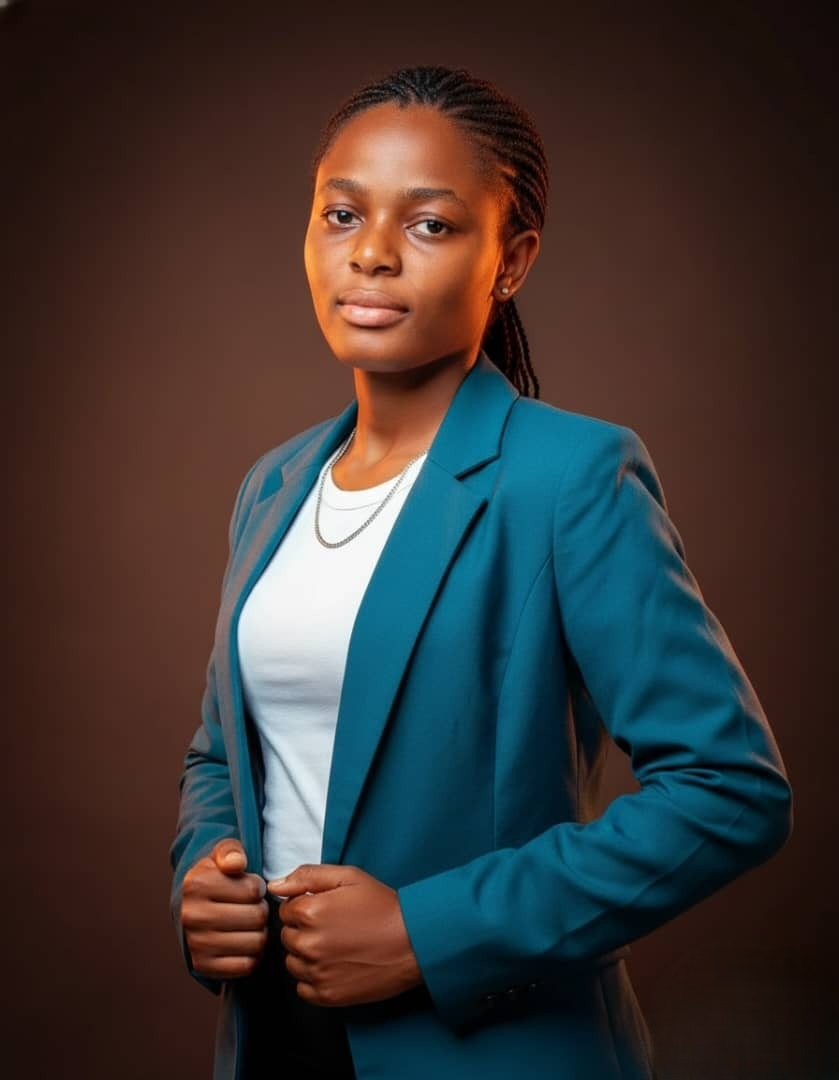
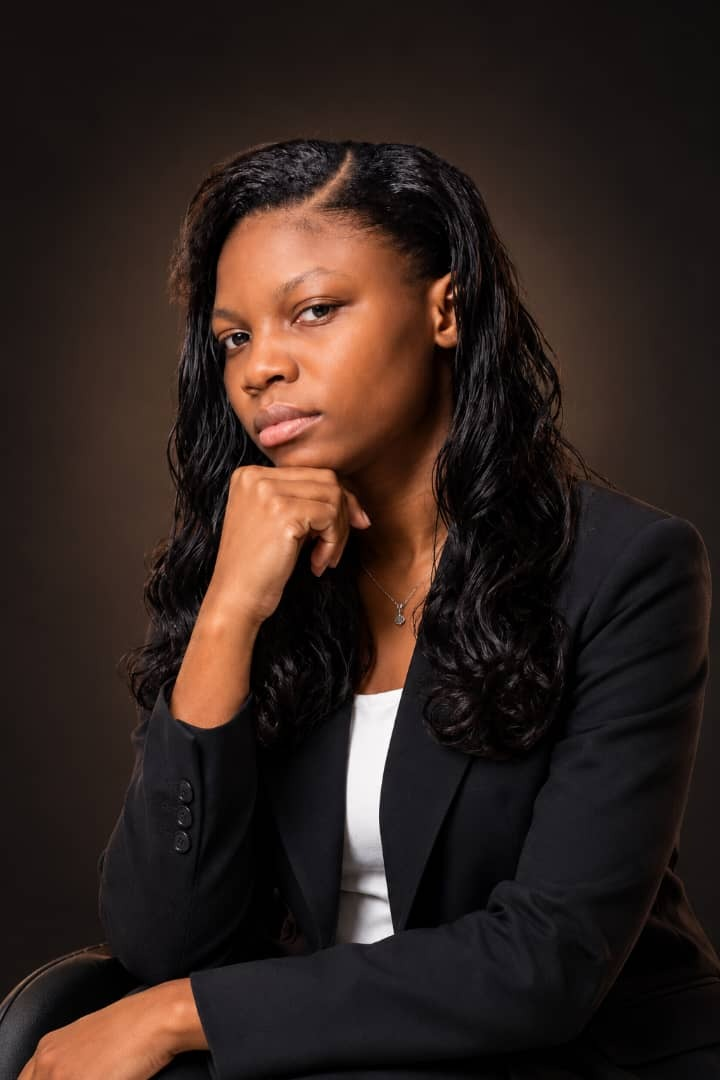
Portfolio de Batista Segla

diff --git a/src/components/Team.jsx b/src/components/Team.jsx
@@ -1,0 +1,76 @@
+import { useState } from "react";
+import { team } from "../data/team.js";
+import { Arrow, Reveal, Spark } from "./ui.jsx";
+
+const initials = (name) => name.split(/\s+/).filter(Boolean).slice(0, 2).map((w) => w[0]).join("").toUpperCase();
+// Grille en quinconce : une colonne sur deux est décalée vers le bas (grand écran).
+const drop = (i) => (i % 2 ? "lg:mt-12" : "");
+
+// La tuile d'invitation occupe les colonnes restantes de la dernière ligne (grand écran).
+const fill = { 1: "lg:col-span-1", 2: "lg:col-span-2", 3: "lg:col-span-3", 4: "lg:col-span-4" };
+
+function Member({ m, i }) {
+  const [missing, setMissing] = useState(false);
+  const Tag = m.link ? "a" : "div";
+  const linkProps = m.link ? { href: m.link, target: "_blank", rel: "noreferrer" } : {};
+  return (
+    <Tag {...linkProps} className="theme-dark group relative block aspect-[4/5] overflow-hidden rounded-[1.75rem] bg-ink text-bone ring-1 ring-bone/10 transition-[transform,box-shadow] duration-500 ease-[cubic-bezier(.2,.7,.2,1)] hover:-translate-y-2 hover:shadow-[0_30px_60px_-25px_rgb(var(--c-accent)/.55)]">
+      {missing ? (
+        <span className="absolute inset-0 flex items-start justify-center pt-[22%] sm:items-center sm:pt-0 bg-[repeating-linear-gradient(135deg,rgb(var(--c-bone)/.05)_0_2px,transparent_2px_16px)]">
+          <span className="font-display text-[clamp(3rem,7vw,5.5rem)] font-bold tracking-[-0.04em] text-bone/25 transition-colors duration-500 group-hover:text-accent">{initials(m.name)}</span>
+        </span>
+      ) : (
+        <img
+          src={m.photo} alt={`${m.name}, ${m.role}`} loading="lazy" onError={() => setMissing(true)}
+          className="absolute inset-0 h-full w-full object-cover grayscale transition-all duration-[900ms] ease-[cubic-bezier(.2,.7,.2,1)] group-hover:scale-[1.06] group-hover:grayscale-0"
+        />
+      )}
+      <span className="pointer-events-none absolute inset-0 bg-gradient-to-t from-ink/90 via-ink/15 to-transparent" />
+      <span className="absolute left-4 top-4 rounded-full bg-ink/70 px-3 py-1 font-display text-xs text-bone backdrop-blur transition-colors duration-500 group-hover:bg-accent group-hover:text-ink">0{i + 1}</span>
+      {m.link && (
+        <span className="absolute right-4 top-4 grid h-9 w-9 scale-0 place-items-center rounded-full bg-accent text-ink transition-transform duration-500 group-hover:scale-100"><Arrow className="h-4 w-4" /></span>
+      )}
+      <span className="absolute inset-x-4 bottom-4 block sm:inset-x-5 sm:bottom-5">
+        <span className="block font-display text-lg font-bold leading-tight tracking-tight sm:text-2xl">{m.name}</span>
+        <span className="mt-1.5 block text-sm text-mist transition-colors duration-500 group-hover:text-accent sm:text-base">{m.role}</span>
+        <span className="mt-3 block h-0.5 w-8 bg-accent transition-all duration-500 group-hover:w-full" />
+      </span>
+    </Tag>
+  );
+}
+
+export default function Team() {
+  return (
+    <section id="team" className="shell pb-24 sm:pb-36">
+      <div className="grid items-end gap-8 lg:grid-cols-12">
+        <Reveal className="lg:col-span-8">
+          <p className="eyebrow text-accent">( Équipe — {String(team.length).padStart(2, "0")} talents )</p>
+          <h2 className="mt-8 font-display text-title font-bold">Celles et ceux avec<br />qui je <span className="mark">travaille</span></h2>
+        </Reveal>
+        <Reveal delay={120} className="font-display text-xl leading-snug text-mist sm:text-2xl lg:col-span-4 lg:pb-3">
+          Les meilleurs projets se construisent à plusieurs. Voici les personnes avec qui je collabore.
+        </Reveal>
+      </div>
+
+      <ul className="mt-14 grid grid-cols-2 gap-4 sm:mt-20 sm:gap-5 lg:grid-cols-4">
+        {team.map((m, i) => (
+          <Reveal as="li" key={i} delay={(i % 4) * 90} className={drop(i)}>
+            <Member m={m} i={i} />
+          </Reveal>
+        ))}
+
+        {/* Tuile d'invitation */}
+        <Reveal as="li" delay={(team.length % 4) * 90} className={`${team.length % 2 ? "col-span-1" : "col-span-2"} ${fill[4 - (team.length % 4)]} ${drop(team.length)}`}>
+          <a href="#contact" className="group relative flex h-full min-h-[14rem] flex-col justify-between overflow-hidden rounded-[1.75rem] bg-accent p-5 text-ink transition-transform duration-500 hover:-translate-y-2 sm:p-9">
+            <Spark className="absolute -right-8 -top-8 h-36 w-36 animate-spin-slow text-ink/10" />
+            <span className="eyebrow relative">Et vous ?</span>
+            <span className="relative flex items-end justify-between gap-4">
+              <span className="font-display text-2xl font-bold leading-[1.05] tracking-tight sm:text-5xl">Rejoignez<br />l’aventure.</span>
+              <span className="grid h-14 w-14 shrink-0 place-items-center rounded-full bg-ink text-accent transition-transform duration-500 group-hover:rotate-45 max-sm:hidden"><Arrow /></span>
+            </span>
+          </a>
+        </Reveal>
+      </ul>
+    </section>
+  );
+}

diff --git a/src/lib/visitNotifier.js b/src/lib/visitNotifier.js
@@ -1,0 +1,72 @@
+import { site } from "../data/site.js";
+
+/* Notification de visite par e-mail, envoyée en arrière-plan.
+   ---------------------------------------------------------------------------
+   - Passe par Web3Forms (https://web3forms.com) : aucun serveur à gérer.
+     La clé se règle dans src/data/site.js → visitNotification.accessKey.
+     Tant que la clé est vide, rien n'est envoyé.
+   - Une seule notification par visiteur : une fois l'e-mail parti, le navigateur
+     le retient (localStorage) et n'en renvoie plus, même aux visites suivantes.
+   - Aucune donnée personnelle n'est collectée : ni nom, ni e-mail, ni adresse IP.
+   - Rien n'est envoyé depuis votre propre machine (localhost), pour les robots,
+     ni pour les visiteurs qui ont activé « Ne pas me pister ».                    */
+
+const STORAGE_KEY = "portfolio-visit-notified";
+const ENDPOINT = "https://api.web3forms.com/submit";
+const DELAY_MS = 5000; // on attend 5 s : une vraie visite, pas un passage éclair
+
+const alreadyNotified = () => { try { return localStorage.getItem(STORAGE_KEY) !== null; } catch { return true; } };
+const remember = () => { try { localStorage.setItem(STORAGE_KEY, new Date().toISOString()); } catch { /* stockage indisponible */ } };
+
+function shouldSkip() {
+  const { hostname } = window.location;
+  if (["localhost", "127.0.0.1", "[::1]"].includes(hostname) || hostname.endsWith(".local")) return true;
+  if (navigator.webdriver) return true;
+  if (/bot|crawl|spider|slurp|lighthouse|headless|preview|facebookexternalhit|whatsapp/i.test(navigator.userAgent)) return true;
+  if (navigator.doNotTrack === "1" || window.doNotTrack === "1") return true;
+  return false;
+}
+
+function describeVisit() {
+  const ua = navigator.userAgent;
+  const device = /Mobi|Android|iPhone/i.test(ua) ? "Téléphone" : /iPad|Tablet/i.test(ua) ? "Tablette" : "Ordinateur";
+  const browser = /Edg\//.test(ua) ? "Edge" : /OPR\//.test(ua) ? "Opera" : /Chrome\//.test(ua) ? "Chrome" : /Firefox\//.test(ua) ? "Firefox" : /Safari\//.test(ua) ? "Safari" : "Autre";
+  let source = "Accès direct (lien tapé, favori ou application)";
+  try { if (document.referrer) source = new URL(document.referrer).hostname; } catch { /* référent illisible */ }
+  return {
+    "Date": new Date().toLocaleString("fr-FR", { dateStyle: "full", timeStyle: "short" }),
+    "Fuseau horaire": Intl.DateTimeFormat().resolvedOptions().timeZone || "inconnu",
+    "Provenance": source,
+    "Page": window.location.href,
+    "Appareil": `${device} — ${browser}`,
+    "Écran": `${window.screen.width} × ${window.screen.height}`,
+    "Langue": navigator.language,
+  };
+}
+
+export function notifyVisitOnce() {
+  const key = site.visitNotification?.accessKey;
+  if (!key || alreadyNotified() || shouldSkip()) return;
+
+  const send = async () => {
+    if (alreadyNotified()) return; // un autre onglet a pu envoyer entre-temps
+    try {
+      const res = await fetch(ENDPOINT, {
+        method: "POST",
+        headers: { "Content-Type": "application/json", Accept: "application/json" },
+        body: JSON.stringify({
+          access_key: key,
+          subject: `Nouvelle visite sur le portfolio de ${site.name}`,
+          from_name: `Portfolio ${site.name}`,
+          ...describeVisit(),
+        }),
+        keepalive: true,
+      });
+      const data = await res.json().catch(() => ({}));
+      if (res.ok && data.success) remember(); // en cas d'échec, on réessaiera à la prochaine visite
+    } catch { /* hors ligne ou service indisponible : silencieux pour le visiteur */ }
+  };
+
+  const timer = setTimeout(send, DELAY_MS);
+  return () => clearTimeout(timer);
+}

diff --git a/src/components/ThemeToggle.jsx b/src/components/ThemeToggle.jsx
@@ -1,0 +1,42 @@
+import { useEffect, useState } from "react";
+
+/* Bouton flottant clair / sombre. Le choix est mémorisé sur l'appareil du visiteur.
+   Les couleurs des deux thèmes sont définies en haut de src/index.css. */
+export default function ThemeToggle() {
+  const [theme, setTheme] = useState(() => document.documentElement.dataset.theme || "dark");
+
+  useEffect(() => {
+    const root = document.documentElement;
+    root.dataset.theme = theme;
+    document.querySelector('meta[name="theme-color"]')?.setAttribute("content", theme === "light" ? "#F5F5EF" : "#090909");
+    try { localStorage.setItem("theme", theme); } catch { /* stockage indisponible : le choix vaut pour cette visite */ }
+  }, [theme]);
+
+  const toggle = () => {
+    const root = document.documentElement;
+    root.classList.add("theme-anim");                       // fondu doux entre les deux thèmes
+    setTimeout(() => root.classList.remove("theme-anim"), 700);
+    setTheme((t) => (t === "light" ? "dark" : "light"));
+  };
+
+  const light = theme === "light";
+  return (
+    <button
+      type="button" onClick={toggle} aria-pressed={light}
+      aria-label={light ? "Passer en mode sombre" : "Passer en mode clair"} title={light ? "Mode sombre" : "Mode clair"}
+      className="theme-toggle group fixed bottom-5 right-5 z-50 grid h-14 w-14 place-items-center overflow-hidden rounded-full border border-bone/20 bg-ink text-bone shadow-[0_12px_30px_-8px_rgb(0_0_0/.45)] transition-transform duration-300 hover:scale-110 active:scale-95 sm:bottom-7 sm:right-7"
+    >
+      <span className="absolute inset-0 scale-0 rounded-full bg-accent transition-transform duration-500 group-hover:scale-100" />
+      {/* Soleil */}
+      <svg viewBox="0 0 24 24" fill="none" stroke="currentColor" strokeWidth="2" strokeLinecap="round" aria-hidden="true"
+        className={`absolute h-6 w-6 transition-all duration-500 group-hover:text-ink ${light ? "rotate-90 scale-0 opacity-0" : "rotate-0 scale-100"}`}>
+        <circle cx="12" cy="12" r="4" /><path d="M12 2v2M12 20v2M4.9 4.9l1.4 1.4M17.7 17.7l1.4 1.4M2 12h2M20 12h2M4.9 19.1l1.4-1.4M17.7 6.3l1.4-1.4" />
+      </svg>
+      {/* Lune */}
+      <svg viewBox="0 0 24 24" fill="none" stroke="currentColor" strokeWidth="2" strokeLinecap="round" strokeLinejoin="round" aria-hidden="true"
+        className={`absolute h-6 w-6 transition-all duration-500 group-hover:text-ink ${light ? "rotate-0 scale-100" : "-rotate-90 scale-0 opacity-0"}`}>
+        <path d="M20.5 14.5A8.5 8.5 0 0 1 9.5 3.5a8.5 8.5 0 1 0 11 11Z" />
+      </svg>
+    </button>
+  );
+}

diff --git a/src/components/Process.jsx b/src/components/Process.jsx
@@ -21,10 +21,10 @@ export default function Process() {
       <ol className="mt-14 grid gap-5 sm:mt-20 sm:grid-cols-2 lg:grid-cols-4">
         {process.map((s, i) => (
           <Reveal as="li" key={s.n} delay={i * 110} className={offset[i]}>
-            <div tabIndex={0} className="group relative flex h-full min-h-[19rem] flex-col justify-between overflow-hidden rounded-[2rem] border border-bone/15 bg-bone/[0.05] p-7 transition-[transform,color,border-color,box-shadow] duration-500 ease-[cubic-bezier(.2,.7,.2,1)] hover:-translate-y-2 hover:border-accent hover:text-ink hover:shadow-[0_30px_60px_-25px_rgba(156,255,61,.6)] focus-visible:text-ink sm:p-8">
+            <div tabIndex={0} className="group relative flex h-full min-h-[19rem] flex-col justify-between overflow-hidden rounded-[2rem] border border-bone/15 bg-bone/[0.05] p-7 transition-[transform,color,border-color,box-shadow] duration-500 ease-[cubic-bezier(.2,.7,.2,1)] hover:-translate-y-2 hover:border-accent hover:text-ink hover:shadow-[0_30px_60px_-25px_rgb(var(--c-accent)/.6)] focus-visible:text-ink sm:p-8">
               <span aria-hidden="true" className="absolute inset-0 bg-accent transition-[clip-path] duration-700 ease-[cubic-bezier(.2,.7,.2,1)] [clip-path:circle(0%_at_0%_100%)] group-hover:[clip-path:circle(150%_at_0%_100%)] group-focus-visible:[clip-path:circle(150%_at_0%_100%)]" />
               {/* Grand numéro en contour */}
-              <span aria-hidden="true" className="pointer-events-none absolute -right-2 -top-6 font-display text-[9rem] font-bold leading-none tracking-[-0.06em] text-transparent transition-all duration-700 [-webkit-text-stroke:1.5px_rgba(245,245,239,.16)] group-hover:-translate-x-2 group-hover:translate-y-2 group-hover:[-webkit-text-stroke:1.5px_rgba(9,9,9,.3)]">{s.n}</span>
+              <span aria-hidden="true" className="pointer-events-none absolute -right-2 -top-6 font-display text-[9rem] font-bold leading-none tracking-[-0.06em] text-transparent transition-all duration-700 [-webkit-text-stroke:1.5px_rgb(var(--c-bone)/.16)] group-hover:-translate-x-2 group-hover:translate-y-2 group-hover:[-webkit-text-stroke:1.5px_rgb(var(--c-ink)/.3)]">{s.n}</span>
 
               <div className="relative flex items-center justify-between">
                 <span className="rounded-full border border-current px-4 py-1.5 font-display text-xs font-medium uppercase tracking-[0.18em]">Étape {s.n}</span>

diff --git a/src/components/Skills.jsx b/src/components/Skills.jsx
@@ -42,7 +42,7 @@ export default function Skills() {
               <Reveal key={g.title} delay={i * 100}>
                 {/* Au survol : la boîte se remplit de vert depuis un coin, se soulève,
                     et ses pastilles se soulèvent l'une après l'autre. */}
-                <div tabIndex={0} className={`group/box relative h-full overflow-hidden rounded-[2rem] p-8 transition-[transform,box-shadow,color,border-color] duration-500 ease-[cubic-bezier(.2,.7,.2,1)] hover:-translate-y-2 hover:-rotate-1 hover:border-accent hover:text-ink hover:shadow-[0_30px_60px_-25px_rgba(156,255,61,.7)] focus-visible:-translate-y-2 focus-visible:text-ink sm:p-10 ${i === 0 ? "border border-ink bg-ink text-bone" : "border border-ink/15"}`}>
+                <div tabIndex={0} className={`group/box relative h-full overflow-hidden rounded-[2rem] p-8 transition-[transform,box-shadow,color,border-color] duration-500 ease-[cubic-bezier(.2,.7,.2,1)] hover:-translate-y-2 hover:-rotate-1 hover:border-accent hover:text-ink hover:shadow-[0_30px_60px_-25px_rgb(var(--c-accent)/.7)] focus-visible:-translate-y-2 focus-visible:text-ink sm:p-10 ${i === 0 ? "border border-ink bg-ink text-bone" : "border border-ink/15"}`}>
                   <span aria-hidden="true" className="absolute inset-0 bg-accent transition-[clip-path] duration-700 ease-[cubic-bezier(.2,.7,.2,1)] [clip-path:circle(0%_at_100%_0%)] group-hover/box:[clip-path:circle(150%_at_100%_0%)] group-focus-visible/box:[clip-path:circle(150%_at_100%_0%)]" />
                   <Spark className="absolute -bottom-10 -right-10 h-40 w-40 scale-50 text-ink opacity-0 transition-all duration-700 group-hover/box:scale-100 group-hover/box:opacity-10 group-hover/box:rotate-90" />
                   <div className="relative flex items-baseline justify-between">

diff --git a/src/data/site.js b/src/data/site.js
@@ -5,6 +5,10 @@ export const site = {
   email: "batista.segla@example.com",
   linkedin: "https://www.linkedin.com/",
   github: "https://github.com/",
+  // Notification par e-mail à chaque nouveau visiteur (une seule fois par personne).
+  // 1. Créez une clé gratuite sur https://web3forms.com avec l'adresse qui doit recevoir les alertes.
+  // 2. Collez-la ci-dessous. Clé vide = notifications désactivées.
+  visitNotification: { accessKey: "" },
   images: {
     // Portrait détouré (fond transparent : PNG ou WebP).
     hero: "/assets/images/hero/batista-hero.webp",
@@ -27,11 +31,10 @@ export const stats = [
 ];
 
 export const aboutFacts = [
-  { label: "Basée en", value: "Afrique de l’Ouest", icon: "/assets/icons/location.svg" },
-  { label: "Rôle", value: "Développeuse web junior", icon: "/assets/icons/role.svg" },
-  { label: "Spécialité", value: "Frontend & Full-stack", icon: "/assets/icons/focus.svg" },
-  // `tags` : la valeur est affichée sous forme de pastilles.
-  { label: "Approche", tags: ["Simple", "Utile", "Élégant"], icon: "/assets/icons/approach.svg" },
+  { label: "Basée en", value: "Afrique de l’Ouest" },
+  { label: "Rôle", value: "Développeuse web junior" },
+  { label: "Spécialité", value: "Frontend & Full-stack" },
+  { label: "Approche", value: "Simple · Utile · Élégant" },
 ];
 
 export const process = [

diff --git a/tailwind.config.js b/tailwind.config.js
@@ -4,12 +4,13 @@ export default {
   theme: {
     extend: {
       // Palette : noir, blanc cassé et UNE couleur d'accent.
-      // Pour changer la couleur du site, modifiez simplement "accent" ci-dessous.
+      // Les valeurs sont définies en haut de src/index.css.
       colors: {
-        ink: "#090909", bone: "#F5F5EF", accent: "#9CFF3D",
-        // Couleurs de texte secondaires, teintées vers le vert pour s'accorder à l'accent.
-        mist: { DEFAULT: "#C9D1BC", dim: "#959E88" },   // sur fond noir : texte courant / discret
-        moss: { DEFAULT: "#2B3421", dim: "#56604A" },   // sur fond clair : texte courant / discret
+        ink: "rgb(var(--c-ink) / <alpha-value>)",
+        bone: "rgb(var(--c-bone) / <alpha-value>)",
+        accent: "rgb(var(--c-accent) / <alpha-value>)",
+        mist: { DEFAULT: "rgb(var(--c-mist) / <alpha-value>)", dim: "rgb(var(--c-mist-dim) / <alpha-value>)" },   // texte courant / discret sur fond « ink »
+        moss: { DEFAULT: "rgb(var(--c-moss) / <alpha-value>)", dim: "rgb(var(--c-moss-dim) / <alpha-value>)" },   // texte courant / discret sur fond « bone »
       },
       fontFamily: {
         display: ['"Space Grotesk Variable"', "Space Grotesk", "system-ui", "sans-serif"],

diff --git a/src/components/ProjectCard.jsx b/src/components/ProjectCard.jsx
@@ -69,7 +69,8 @@ export default function ProjectCard({ project: p }) {
   if (p.layout === "full") return (
     <Reveal as="article">
       <a href={p.link} className="group block">
-        <Shot src={p.image} alt={alt} className="aspect-[4/3] rounded-panel sm:aspect-[16/10] lg:aspect-[16/7]">
+        {/* theme-dark : le texte posé sur la photo reste clair dans les deux thèmes */}
+        <Shot src={p.image} alt={alt} className="theme-dark aspect-[4/3] rounded-panel text-bone sm:aspect-[16/10] lg:aspect-[16/7]">
           <div className="pointer-events-none absolute inset-0 bg-gradient-to-t from-ink/85 via-ink/10 to-transparent transition-opacity duration-700 group-hover:opacity-80" />
           <span className="absolute left-6 top-6 rounded-full bg-accent px-5 py-2 font-display text-sm font-medium text-ink transition-transform duration-500 group-hover:-translate-y-1 sm:left-10 sm:top-10">{p.n} — {p.type}</span>
           <div className="absolute inset-x-6 bottom-6 flex flex-wrap items-end justify-between gap-6 sm:inset-x-10 sm:bottom-10">

diff --git a/src/App.jsx b/src/App.jsx
@@ -1,3 +1,5 @@
+import { useEffect } from "react";
+import { notifyVisitOnce } from "./lib/visitNotifier.js";
 import Curtain from "./components/Curtain.jsx";
 import Navbar from "./components/Navbar.jsx";
 import Hero from "./components/Hero.jsx";
@@ -7,10 +9,14 @@ import Marquee from "./components/Marquee.jsx";
 import Skills from "./components/Skills.jsx";
 import Projects from "./components/Projects.jsx";
 import Process from "./components/Process.jsx";
+import Team from "./components/Team.jsx";
 import Contact from "./components/Contact.jsx";
 import Footer from "./components/Footer.jsx";
 
 export default function App() {
+  // Prévient par e-mail lors d'une nouvelle visite (voir src/lib/visitNotifier.js).
+  useEffect(() => notifyVisitOnce(), []);
+
   return (
     <>
       <Curtain />
@@ -23,6 +29,7 @@ export default function App() {
         <Skills />
         <Projects />
         <Process />
+        <Team />
         <Contact />
       </main>
       <Footer />

diff --git a/src/data/team.js b/src/data/team.js
@@ -1,0 +1,12 @@
+// Équipe — les personnes avec qui Batista travaille.
+// Pour chaque personne : nom, poste, photo (fichier dans public/assets/images/team/) et lien facultatif.
+// Ajoutez ou retirez des lignes librement : la grille s'adapte.
+const photo = (file) => `/assets/images/team/${file}`;
+
+export const team = [
+  { name: "Lisette OBOGNON", role: "Développeuse backend", photo: photo("lisette.jpg"), link: "" },
+  { name: "Bhilal CHITOU", role: "Développeur JS full-stack", photo: photo("bhilal.jpg"), link: "" },
+  { name: "Ismael Fullbuster", role: "Développeur web full-stack JS", photo: photo("ismael.jpg"), link: "" },
+  { name: "Elvire FADEGNON", role: "Développeuse Laravel & React", photo: photo("elvire.jpg"), link: "" },
+  { name: "Eurydoxie Yantikoua", role: "Designeuse UI/UX & développeuse frontend", photo: photo("eurydoxie.jpg"), link: "" },
+];

diff --git a/src/components/ui.jsx b/src/components/ui.jsx
@@ -29,7 +29,7 @@ export function Media({ src, alt, className = "", imgClassName = "", eager = fal
   return (
     <div className={`relative overflow-hidden bg-bone/10 ${className}`}>
       {missing ? (
-        <div className="absolute inset-0 grid place-items-center p-6 text-center bg-[repeating-linear-gradient(135deg,rgba(245,245,239,.06)_0_2px,transparent_2px_18px)]">
+        <div className="absolute inset-0 grid place-items-center p-6 text-center bg-[repeating-linear-gradient(135deg,rgb(var(--c-bone)/.06)_0_2px,transparent_2px_18px)]">
           <p className="eyebrow !tracking-[0.12em] text-mist-dim break-all">Image à placer<br />public{src}</p>
         </div>
       ) : (

diff --git a/src/components/Curtain.jsx b/src/components/Curtain.jsx
@@ -38,7 +38,7 @@ export default function Curtain() {
   return (
     <button
       type="button" onClick={open} autoFocus aria-label="Lever le rideau et entrer sur le site"
-      className={`fixed inset-0 z-[100] block w-full cursor-pointer overflow-hidden text-bone ${opening ? "pointer-events-none" : ""}`}
+      className={`theme-dark fixed inset-0 z-[100] block w-full cursor-pointer overflow-hidden text-bone ${opening ? "pointer-events-none" : ""}`}
     >
       {/* Les deux pans du rideau */}
       <span className={`${pan} left-0 origin-top-left ${folds} ${opening ? "-translate-x-[104%] skew-x-6" : ""}`}><span className={shade} /></span>
